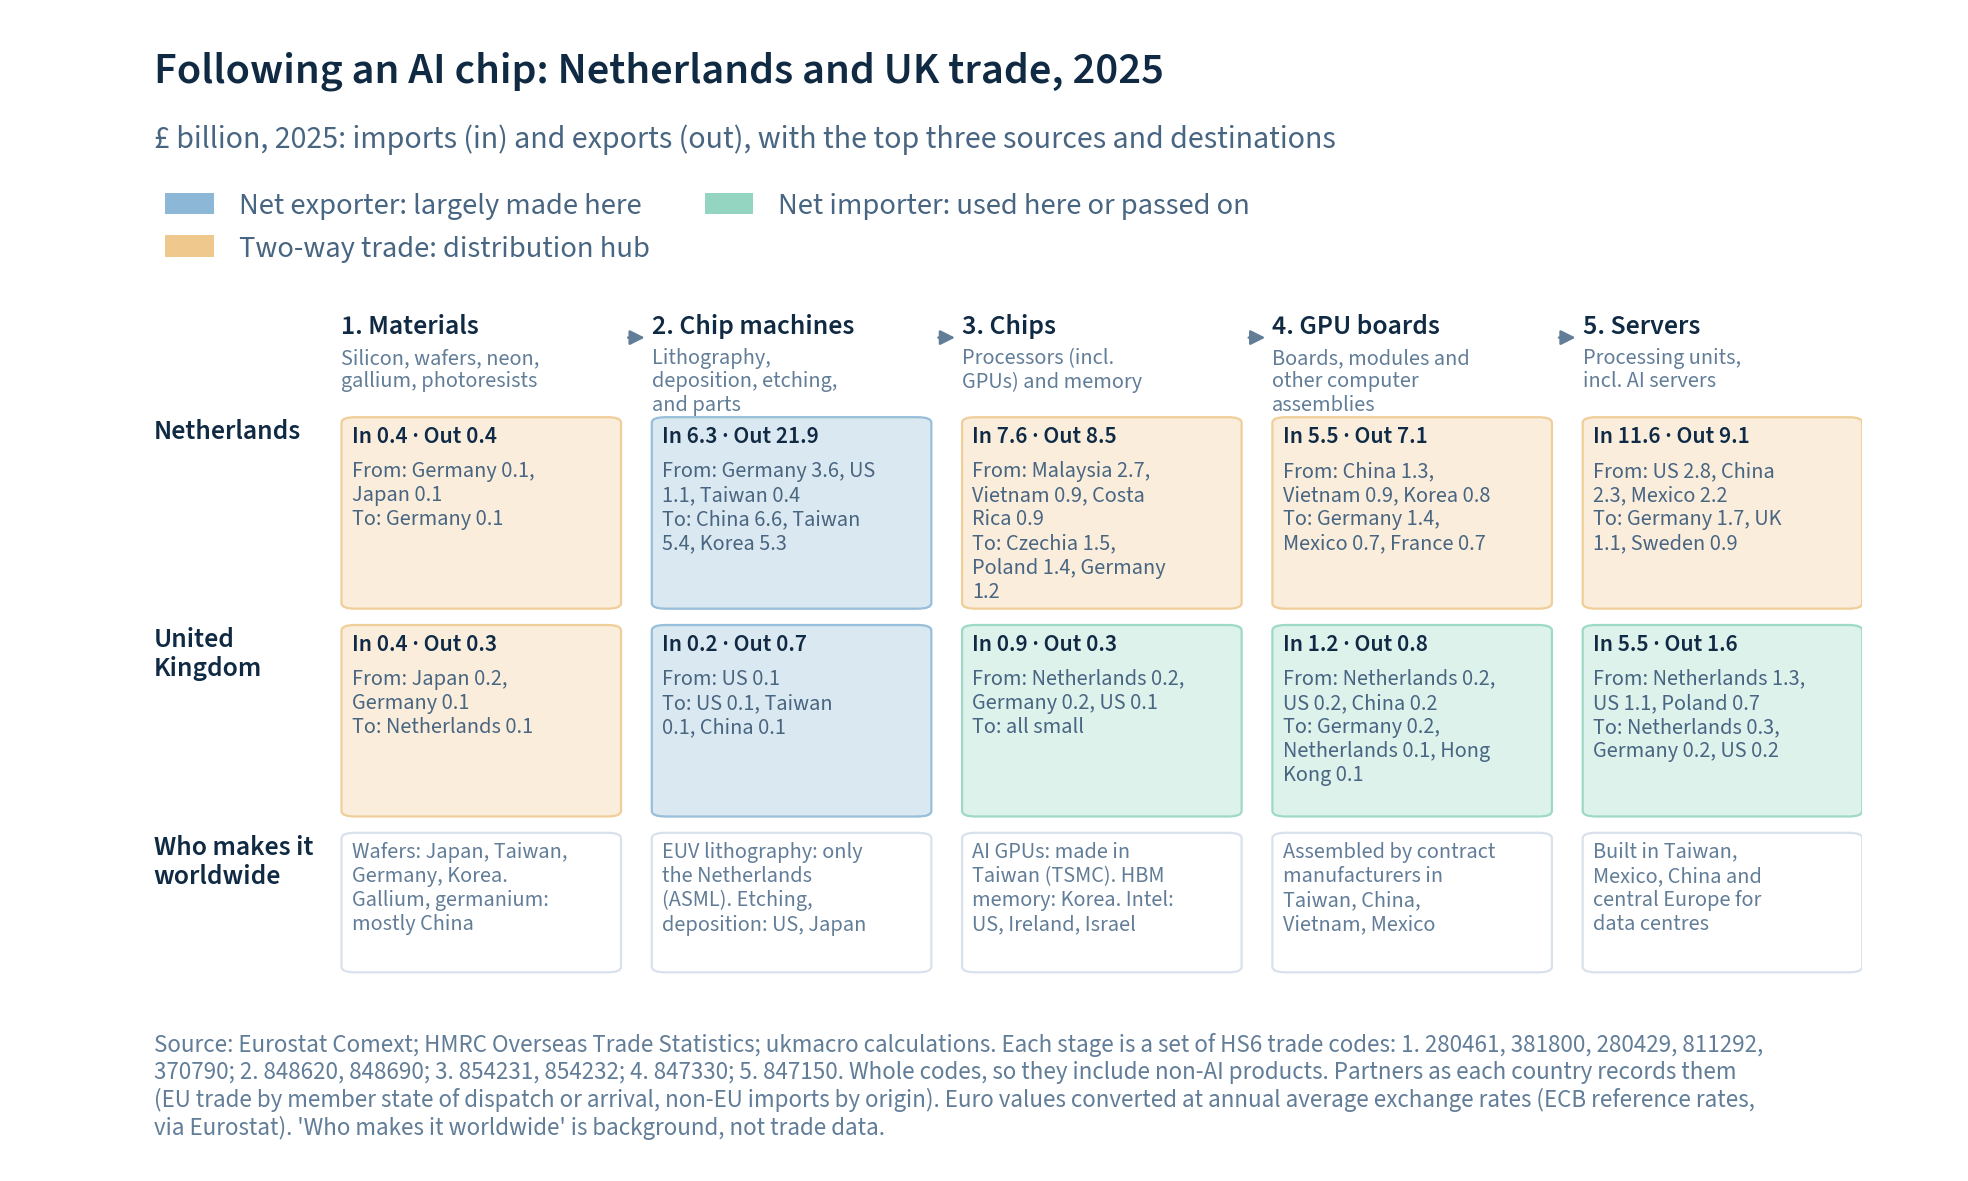
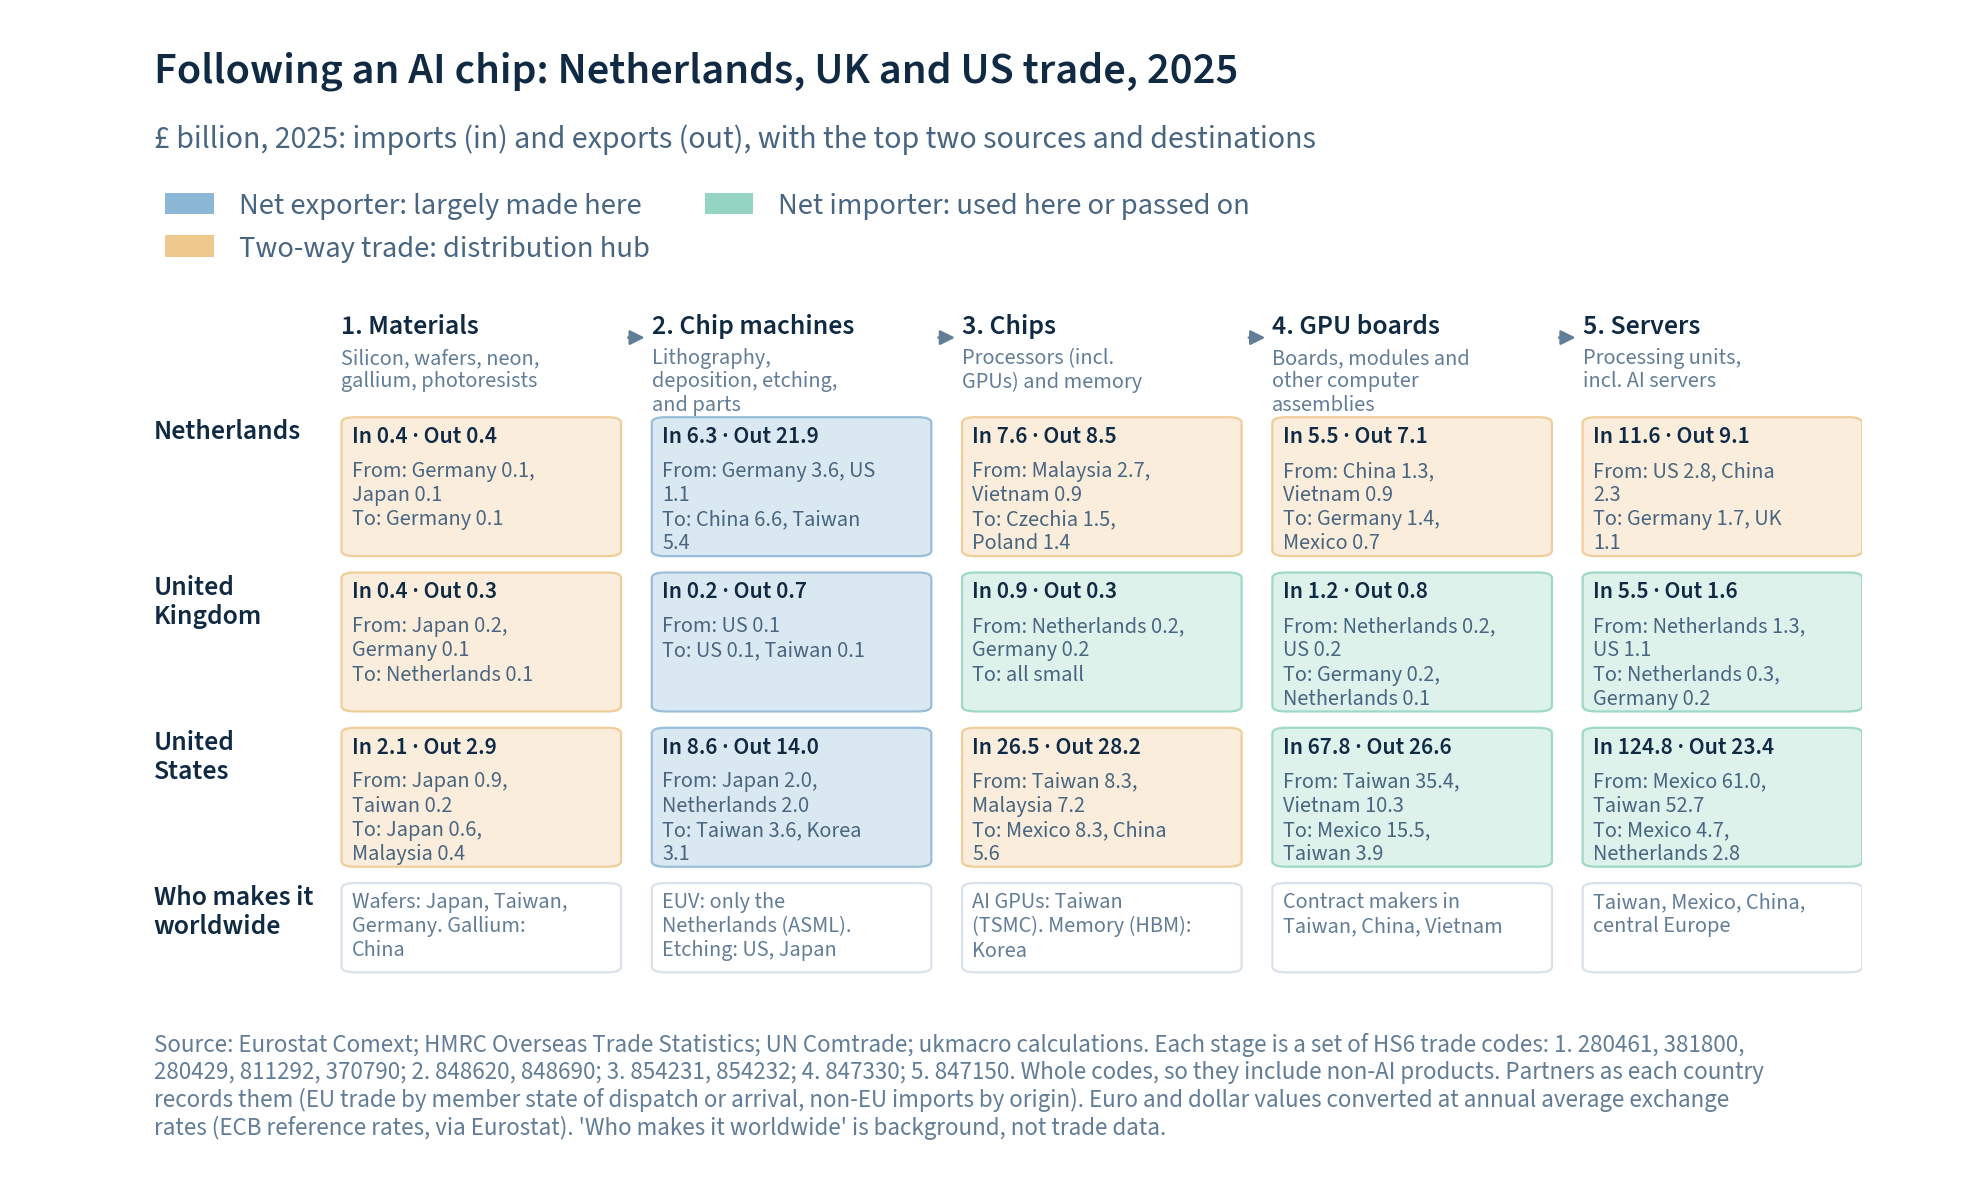
AI chip supply chain: add a US row (UN Comtrade); top two partners per flow

diff --git a/builders/trade/ai_trade.py b/builders/trade/ai_trade.py
@@ -34,7 +34,7 @@ Outputs:
     data/trade/ai/ai_hardware_components.csv  IMF basket by component, calendar years
     data/trade/ai/ai_top_partners.csv     top ten partners by AI product group, latest two years
     data/trade/ai/ai_hub_origins.csv      EU hubs: estimated made-in-hub share and top origins
-    data/trade/ai/ai_chip_supply_chain.csv  an AI chip's supply chain in Dutch and UK trade
+    data/trade/ai/ai_chip_supply_chain.csv  an AI chip's supply chain in Dutch, UK and US trade
     data/trade/ai/ai_stack.csv            AI stack: IMF basket, other AI products, rest of extended goods tier, AI services (values and volumes)
     data/trade/ai/<slug>.json + img/trade/ai/<slug>.png   charts
 """
@@ -54,7 +54,7 @@ sys.path.insert(0, str(REPO))
 
 import yaml  # noqa: E402
 
-from ukmacro import charts, comext, hmrc_trade, ons  # noqa: E402
+from ukmacro import charts, comext, comtrade, hmrc_trade, ons  # noqa: E402
 from ukmacro.http import get_json, get_text  # noqa: E402
 
 DEFS = yaml.safe_load((REPO / "definitions" / "ai_trade.yaml").read_text())
@@ -925,7 +925,8 @@ def uk_trade_by_partner(hs6: list[str], years: list[str]) -> dict[tuple[str, str
 def chip_supply_chain_chart() -> list[dict]:
     """"Following an AI chip": each supply-chain stage (definitions/ai_trade.yaml
     `chip_supply_chain`) and what each country's trade shows at it in the latest year
-    (EU members from Eurostat Comext, the UK from HMRC; £ at annual average exchange rates):
+    (EU members from Eurostat Comext, the UK from HMRC, the US from UN Comtrade; £ at
+    annual average exchange rates):
     imports, exports, the top sources and destinations, and whether the country is a net
     exporter (largely makes it), a net importer (uses it or passes it on) or trades both
     ways (a hub). Returns rows for a CSV."""
@@ -933,17 +934,28 @@ def chip_supply_chain_chart() -> list[dict]:
     codes = [c for st in spec["stages"] for c in st["hs6"]]
     years = [str(y) for y in range(datetime.date.today().year - 3, datetime.date.today().year)]
     try:
-        # £ per €, annual averages (Eurostat, from ECB reference rates): everything is shown in £
-        fx = get_json("https://ec.europa.eu/eurostat/api/dissemination/statistics/1.0/data/ert_bil_eur_a"
-                      f"?format=JSON&currency=GBP&statinfo=AVG&sinceTimePeriod={years[0]}", timeout=60)
-        when = {i: y for y, i in fx["dimension"]["time"]["category"]["index"].items()}
-        gbp_per_eur = {when[int(k)]: v for k, v in fx["value"].items()}
-        trade = {cc: (uk_trade_by_partner(codes, years) if cc == "GB" else
-                      {k: v * gbp_per_eur.get(k[3], float("nan"))
-                       for k, v in comext.annual(cc, codes, years).items()})
-                 for cc in spec["countries"]}
+        # annual average exchange rates (Eurostat, from ECB reference rates): everything is shown in £
+        def per_eur(currency: str) -> dict[str, float]:
+            fx = get_json("https://ec.europa.eu/eurostat/api/dissemination/statistics/1.0/data/ert_bil_eur_a"
+                          f"?format=JSON&currency={currency}&statinfo=AVG&sinceTimePeriod={years[0]}", timeout=60)
+            when = {i: y for y, i in fx["dimension"]["time"]["category"]["index"].items()}
+            return {when[int(k)]: v for k, v in fx["value"].items()}
+        gbp, usd = per_eur("GBP"), per_eur("USD")
+        trade = {}
+        for cc in spec["countries"]:
+            if cc == "GB":
+                trade[cc] = uk_trade_by_partner(codes, years)
+            elif cc == "US":   # Comtrade, latest year the US has reported (one year: the API is slow)
+                us = {}
+                for y in reversed(years):
+                    us = comtrade.annual(842, codes, y)
+                    if us:
+                        break
+                trade[cc] = {k: v * gbp[k[3]] / usd[k[3]] for k, v in us.items()}
+            else:
+                trade[cc] = {k: v * gbp.get(k[3], float("nan")) for k, v in comext.annual(cc, codes, years).items()}
     except Exception as e:  # noqa: BLE001 - skip, keep the last published version
-        print(f"[ai-trade] Comext unavailable, chip supply chain skipped: {e}")
+        print(f"[ai-trade] Comext or Comtrade unavailable, chip supply chain skipped: {e}")
         return []
     year = min(max(k[3] for k in d if k[0] == "imports") for d in trade.values())
     rows, grid = [], []
@@ -962,7 +974,7 @@ def chip_supply_chain_chart() -> list[dict]:
                 for (ff, c, p, y), v in d.items():
                     if ff == f and c in codes_ and y == year and (_is_origin(p, cc) or p == "GB" != cc):
                         agg[p] = agg.get(p, 0.0) + v
-                partners[f] = sorted(agg.items(), key=lambda kv: -kv[1])[:3]
+                partners[f] = sorted(agg.items(), key=lambda kv: -kv[1])[:spec.get("top", 3)]
                 rows += [{"country": country, "stage": st["label"], "year": year, "flow": f, "partner": name(p),
                           "gbp_bn": round(v / 1e9, 2)} for p, v in partners[f]]
             m, x = tot["imports"], tot["exports"]
@@ -975,11 +987,13 @@ def chip_supply_chain_chart() -> list[dict]:
             rows.append({"country": country, "stage": st["label"], "year": year, "flow": "total",
                          "partner": f"imports {m / 1e9:.2f}, exports {x / 1e9:.2f}", "gbp_bn": None})
         grid.append({"date": country, "label": country, "cells": cells})
-    grid.append({"date": "context", "label": "Who makes it worldwide", "weight": 0.75,
+    grid.append({"date": "context", "label": "Who makes it worldwide", "weight": 0.68,
                  "cells": [{"lines": [st["context"]]} for st in spec["stages"]]})
-    names = " and ".join(spec["countries"].values()).replace("United Kingdom", "UK")
+    names = ", ".join(spec["countries"].values()).replace("United Kingdom", "UK").replace("United States", "US")
+    names = " and ".join(names.rsplit(", ", 1))
     c = chart("ai-chip-supply-chain", f"Following an AI chip: {names} trade, {year}",
-              f"£ billion, {year}: imports (in) and exports (out), with the top three sources and destinations",
+              f"£ billion, {year}: imports (in) and exports (out), with the top {('two', 'three')[spec.get('top', 3) - 2]} "
+              "sources and destinations",
               "flow-grid",
               [{"key": "makes", "label": "Net exporter: largely made here"},
                {"key": "hub", "label": "Two-way trade: distribution hub"},
@@ -988,9 +1002,10 @@ def chip_supply_chain_chart() -> list[dict]:
               "Each stage is a set of HS6 trade codes: 1. 280461, 381800, 280429, 811292, 370790; 2. 848620, "
               "848690; 3. 854231, 854232; 4. 847330; 5. 847150. Whole codes, so they include non-AI products. "
               "Partners as each country records them (EU trade by member state of dispatch or arrival, "
-              "non-EU imports by origin). Euro values converted at annual average exchange rates (ECB reference rates, via Eurostat). 'Who makes "
+              "non-EU imports by origin). Euro and dollar values converted at annual average exchange rates (ECB "
+              "reference rates, via Eurostat). 'Who makes "
               "it worldwide' is background, not trade data.",
-              "Eurostat Comext; HMRC Overseas Trade Statistics; ukmacro calculations", freq="A")
+              "Eurostat Comext; HMRC Overseas Trade Statistics; UN Comtrade; ukmacro calculations", freq="A")
     c["columns"] = [{"label": st["label"], "sub": st["sub"]} for st in spec["stages"]]
     c["events"] = None
     publish(c)

diff --git a/ukmacro/comtrade.py b/ukmacro/comtrade.py
@@ -1,0 +1,45 @@
+"""UN Comtrade: countries' goods trade by HS6 product and partner, as each reports it.
+
+Uses the public preview API (no key). It allows one period per request, returns at most
+500 rows and is rate-limited, so requests are made one product at a time and spaced
+out. Values are in US dollars.
+"""
+
+from __future__ import annotations
+
+import time
+
+from .http import get_json
+
+API = "https://comtradeapi.un.org/public/v1/preview/C/A/HS"
+REFERENCE = "https://comtradeapi.un.org/files/v1/app/reference/partnerAreas.json"
+_ISO2: dict[int, str] = {}
+
+
+def partner_iso2() -> dict[int, str]:
+    """Comtrade partner code -> ISO two-letter code; 0 = "WORLD". Comtrade records
+    Taiwan as "Other Asia, nes" (490), which is mapped to "TW"."""
+    if not _ISO2:
+        for p in get_json(REFERENCE, timeout=60)["results"]:
+            if p.get("PartnerCodeIsoAlpha2"):
+                _ISO2[p["PartnerCode"]] = p["PartnerCodeIsoAlpha2"]
+        _ISO2[0], _ISO2[490] = "WORLD", "TW"
+    return _ISO2
+
+
+def annual(reporter: int, hs6: list[str], year: str, pause: float = 6.0) -> dict[tuple[str, str, str, str], float]:
+    """{(flow, hs6, partner ISO2 or "WORLD", year): $} for one reporter (M49 code, e.g.
+    842 = US), imports and exports, every partner. Unknown partner codes are dropped."""
+    iso2 = partner_iso2()
+    out: dict = {}
+    for flow_code, flow in (("M", "imports"), ("X", "exports")):
+        for code in hs6:
+            d = get_json(f"{API}?reporterCode={reporter}&flowCode={flow_code}&period={year}&cmdCode={code}"
+                         "&partner2Code=0&customsCode=C00&motCode=0", timeout=120)
+            for r in d.get("data", []):
+                p = iso2.get(r["partnerCode"])
+                if p:
+                    key = (flow, code, p, year)
+                    out[key] = out.get(key, 0.0) + (r["primaryValue"] or 0)
+            time.sleep(pause)   # stay under the preview's rate limit
+    return out
